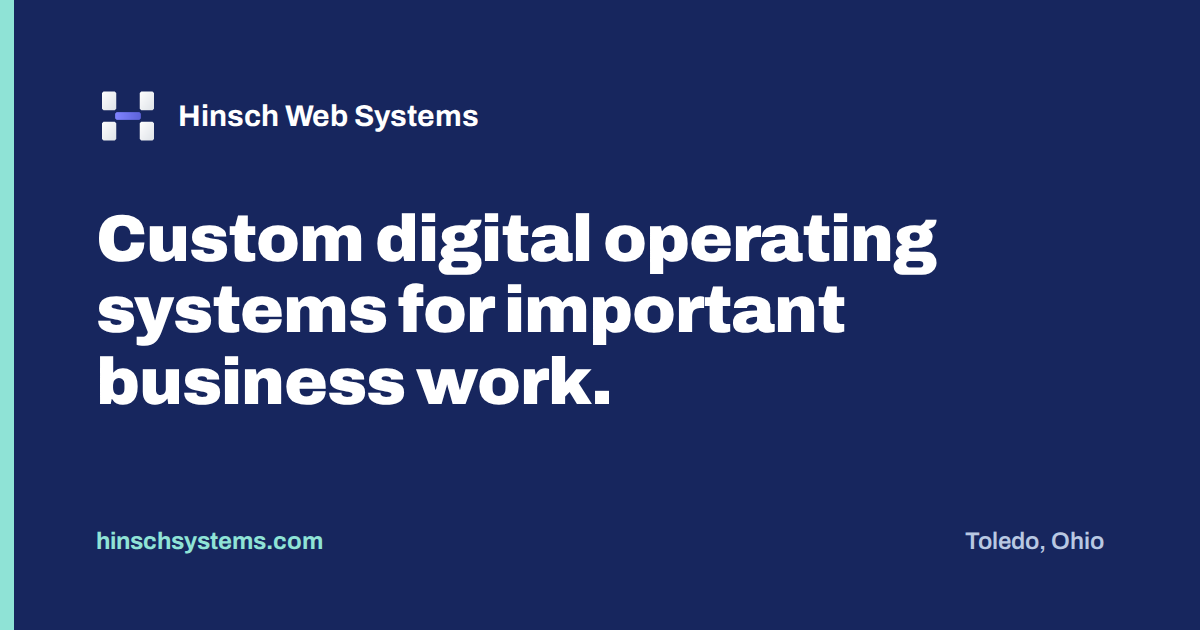
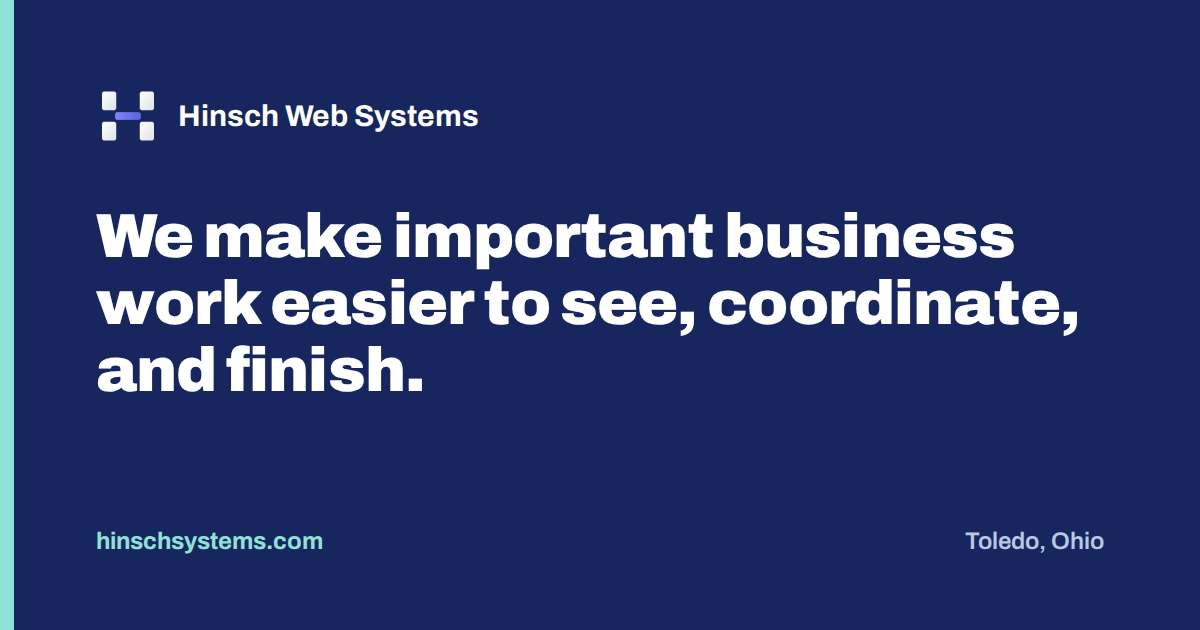
Add files via upload

Changed region(s): [[0.0617, 0.3317, 0.8942, 0.6635]]

diff --git a/company.html b/company.html
@@ -3,8 +3,8 @@
 <head>
 <meta charset="utf-8">
 <meta name="viewport" content="width=device-width, initial-scale=1">
-<title>Hinsch Web Systems | Custom digital operating systems for business work</title>
-<meta name="description" content="Hinsch Web Systems helps growing businesses find the inefficiencies hiding in their workflows, then builds the AI-powered systems, integrations, and automations that fix them.">
+<title>Hinsch Web Systems | Business work, made clearer and more reliable</title>
+<meta name="description" content="Hinsch Web Systems helps growing businesses see where work gets stuck, then builds connected tools and workflows that help people carry it through and confirm the result.">
 <link rel="canonical" href="https://hinschsystems.com/company">
 <meta name="theme-color" content="#17265E">
 <meta name="robots" content="index, follow">
@@ -12,7 +12,7 @@
 <meta property="og:type" content="website">
 <meta property="og:site_name" content="Hinsch Web Systems">
 <meta property="og:title" content="Hinsch Web Systems">
-<meta property="og:description" content="We build custom digital operating systems for important business work. Toledo, Ohio.">
+<meta property="og:description" content="We build connected tools and workflows that help people do important business work with more clarity and confidence. Toledo, Ohio.">
 <meta property="og:url" content="https://hinschsystems.com/company">
 <meta property="og:image" content="https://hinschsystems.com/company-social-preview.png">
 <meta property="og:image:width" content="1200">
@@ -21,7 +21,7 @@
 <meta property="og:locale" content="en_US">
 <meta name="twitter:card" content="summary_large_image">
 <meta name="twitter:title" content="Hinsch Web Systems">
-<meta name="twitter:description" content="We build custom digital operating systems for important business work. Toledo, Ohio.">
+<meta name="twitter:description" content="We build connected tools and workflows that help people do important business work with more clarity and confidence. Toledo, Ohio.">
 <meta name="twitter:image" content="https://hinschsystems.com/company-social-preview.png">
 <script type="application/ld+json">{"@context":"https://schema.org","@type":"ProfessionalService","name":"Hinsch Web Systems","url":"https://hinschsystems.com/company","email":"alex@hinschsystems.com","areaServed":"US","address":{"@type":"PostalAddress","addressLocality":"Toledo","addressRegion":"OH","addressCountry":"US"},"parentOrganization":{"@type":"Organization","name":"Your Media People LLC"}}</script>
 <link rel="preconnect" href="https://fonts.googleapis.com">
@@ -288,17 +288,17 @@
   <header class="hero">
     <div class="wrap">
       <div class="kicker">Systems consultancy, Toledo, Ohio</div>
-      <h1>We build custom digital operating systems for important business work.</h1>
-      <p class="lede">We connect the people, software, data, and decisions involved, so the work runs reliably, gets tracked, and gets checked.</p>
+      <h1>We make important business work easier to see, coordinate, and finish.</h1>
+      <p class="lede">We connect the people, tools, information, and decisions involved, so everyone can see what is happening, carry the work forward, and confirm what got done.</p>
       <div class="btn-row">
         <a href="mailto:alex@hinschsystems.com?subject=Let%27s%20talk&amp;cc=alex%40loudkid.com" class="btn-primary">Let's talk</a>
         <a href="#how-we-work" class="link-underline">See how we work</a>
       </div>
       <div class="hero-strip">
-        <div class="item"><span class="ic a"><svg aria-hidden="true" focusable="false" viewBox="0 0 24 24" fill="none" stroke="currentColor" stroke-width="2"><path d="M9 15l6-6"/><path d="M8 12l-2.3 2.3a3.3 3.3 0 0 0 4.7 4.7L13 16.5"/><path d="M16 12l2.3-2.3a3.3 3.3 0 0 0-4.7-4.7L11 7.5"/></svg></span>Connect fragmented tools</div>
+        <div class="item"><span class="ic a"><svg aria-hidden="true" focusable="false" viewBox="0 0 24 24" fill="none" stroke="currentColor" stroke-width="2"><path d="M9 15l6-6"/><path d="M8 12l-2.3 2.3a3.3 3.3 0 0 0 4.7 4.7L13 16.5"/><path d="M16 12l2.3-2.3a3.3 3.3 0 0 0-4.7-4.7L11 7.5"/></svg></span>Connect tools that don’t work together</div>
         <div class="item"><span class="ic b"><svg aria-hidden="true" focusable="false" viewBox="0 0 24 24" fill="none" stroke="currentColor" stroke-width="2"><rect x="3" y="4" width="18" height="16" rx="2"/><line x1="3" y1="9" x2="21" y2="9"/></svg></span>Build a custom app</div>
-        <div class="item"><span class="ic c"><svg aria-hidden="true" focusable="false" viewBox="0 0 24 24" fill="none" stroke="currentColor" stroke-width="2"><circle cx="12" cy="12" r="3"/><path d="M12 3v2M12 19v2M4.2 4.2l1.4 1.4M18.4 18.4l1.4 1.4M3 12h2M19 12h2M4.2 19.8l1.4-1.4M18.4 5.6l1.4-1.4"/></svg></span>Make it AI-ready</div>
-        <div class="item"><span class="ic d"><svg aria-hidden="true" focusable="false" viewBox="0 0 24 24" fill="none" stroke="currentColor" stroke-width="2"><path d="M12 3l7 3v6c0 5-3.2 8-7 9-3.8-1-7-4-7-9V6z"/><path d="M9 12l2 2 4-4"/></svg></span>Tame a complicated process</div>
+        <div class="item"><span class="ic c"><svg aria-hidden="true" focusable="false" viewBox="0 0 24 24" fill="none" stroke="currentColor" stroke-width="2"><circle cx="12" cy="12" r="3"/><path d="M12 3v2M12 19v2M4.2 4.2l1.4 1.4M18.4 18.4l1.4 1.4M3 12h2M19 12h2M4.2 19.8l1.4-1.4M18.4 5.6l1.4-1.4"/></svg></span>Prepare work for AI</div>
+        <div class="item"><span class="ic d"><svg aria-hidden="true" focusable="false" viewBox="0 0 24 24" fill="none" stroke="currentColor" stroke-width="2"><path d="M12 3l7 3v6c0 5-3.2 8-7 9-3.8-1-7-4-7-9V6z"/><path d="M9 12l2 2 4-4"/></svg></span>Make a complicated process easier to manage</div>
       </div>
     </div>
   </header>
@@ -307,7 +307,7 @@
   <section class="ethos">
     <div class="wrap">
       <div class="kicker" style="display:flex;">What we believe</div>
-      <p>We believe human intention should not be defeated by complexity. Technology should make people and organizations more capable, not more dependent.</p>
+      <p>Complexity should not get in the way of what people are trying to do. Technology should help people and organizations do more, with greater clarity and control.</p>
     </div>
   </section>
 
@@ -315,14 +315,14 @@
   <section class="section our-approach">
     <div class="wrap">
       <div class="kicker">Our approach</div>
-      <h2>One trusted answer to "What's true right now?"</h2>
-      <p class="body">Every lead, job, payment, and deadline, kept up to date as work happens. Everyone looks at the same truth. We call that a <strong>Live Business State</strong>, and every workflow we build reads from it and writes back to it.</p>
+      <h2>A shared, current picture of what is happening</h2>
+      <p class="body">Leads, jobs, payments, and deadlines stay current as work happens. Everyone can work from the same up-to-date record. We call that a <strong>Live Business State</strong>. Each workflow we build reads from it and records its updates there.</p>
 
       <div class="lbs-grid">
         <div class="lbs-card">
           <div class="label">What it is</div>
-          <h3>A live record of your business, kept in one structured place.</h3>
-          <p>It updates when work happens, not when someone remembers to update it.</p>
+          <h3>A current, organized record of what is happening in your business.</h3>
+          <p>It updates as work happens, so the record does not depend on someone remembering to update it later.</p>
           <hr>
           <div class="label">What it is not</div>
           <ul>
@@ -333,13 +333,13 @@
           </ul>
         </div>
         <div>
-          <div class="q-answers-label">It answers six questions, any time</div>
+          <div class="q-answers-label">It helps answer six questions at any time</div>
           <div class="lbs-questions">
             <div class="q-card"><div class="card-icon"><svg aria-hidden="true" focusable="false" viewBox="0 0 24 24" fill="none" stroke="currentColor" stroke-width="2"><polyline points="3 12 8 12 10 6 14 18 16 12 21 12"/></svg></div><div class="num">01</div><h4>What's happening?</h4><p>Every open lead, job, and invoice.</p></div>
             <div class="q-card"><div class="card-icon"><svg aria-hidden="true" focusable="false" viewBox="0 0 24 24" fill="none" stroke="currentColor" stroke-width="2"><circle cx="12" cy="8" r="4"/><path d="M4 20c0-4.4 3.6-8 8-8s8 3.6 8 8"/></svg></div><div class="num">02</div><h4>Who owns it?</h4><p>One name on every item.</p></div>
             <div class="q-card"><div class="card-icon"><svg aria-hidden="true" focusable="false" viewBox="0 0 24 24" fill="none" stroke="currentColor" stroke-width="2"><line x1="5" y1="12" x2="19" y2="12"/><polyline points="13 6 19 12 13 18"/></svg></div><div class="num">03</div><h4>What happens next?</h4><p>The next step and when it's due.</p></div>
-            <div class="q-card"><div class="card-icon"><svg aria-hidden="true" focusable="false" viewBox="0 0 24 24" fill="none" stroke="currentColor" stroke-width="2"><line x1="9" y1="6" x2="20" y2="6"/><line x1="9" y1="12" x2="20" y2="12"/><line x1="9" y1="18" x2="20" y2="18"/><circle cx="4" cy="6" r="1.3" fill="currentColor" stroke="none"/><circle cx="4" cy="12" r="1.3" fill="currentColor" stroke="none"/><circle cx="4" cy="18" r="1.3" fill="currentColor" stroke="none"/></svg></div><div class="num">04</div><h4>Which rules apply?</h4><p>Your rules, written down, not remembered.</p></div>
-            <div class="q-card"><div class="card-icon"><svg aria-hidden="true" focusable="false" viewBox="0 0 24 24" fill="none" stroke="currentColor" stroke-width="2"><polyline points="4 12 9 17 20 6"/></svg></div><div class="num">05</div><h4>Did it actually happen?</h4><p>Done means confirmed, not assumed.</p></div>
+            <div class="q-card"><div class="card-icon"><svg aria-hidden="true" focusable="false" viewBox="0 0 24 24" fill="none" stroke="currentColor" stroke-width="2"><line x1="9" y1="6" x2="20" y2="6"/><line x1="9" y1="12" x2="20" y2="12"/><line x1="9" y1="18" x2="20" y2="18"/><circle cx="4" cy="6" r="1.3" fill="currentColor" stroke="none"/><circle cx="4" cy="12" r="1.3" fill="currentColor" stroke="none"/><circle cx="4" cy="18" r="1.3" fill="currentColor" stroke="none"/></svg></div><div class="num">04</div><h4>Which rules apply?</h4><p>Your rules are recorded, so people do not have to rely on memory.</p></div>
+            <div class="q-card"><div class="card-icon"><svg aria-hidden="true" focusable="false" viewBox="0 0 24 24" fill="none" stroke="currentColor" stroke-width="2"><polyline points="4 12 9 17 20 6"/></svg></div><div class="num">05</div><h4>Did it actually happen?</h4><p>The work is marked done when the result has been confirmed.</p></div>
             <div class="q-card"><div class="card-icon"><svg aria-hidden="true" focusable="false" viewBox="0 0 24 24" fill="none" stroke="currentColor" stroke-width="2"><circle cx="12" cy="12" r="9"/><polyline points="12 7 12 12 16 14"/></svg></div><div class="num">06</div><h4>What changed?</h4><p>Who changed it, and when.</p></div>
           </div>
         </div>
@@ -347,28 +347,28 @@
 
       <div class="lbs-example-grid">
         <div class="example-card">
-          <div class="label">Example · One lead, as the state sees it</div>
-          <h3>The record moves as the work moves.</h3>
+          <div class="label">Example · One lead, shown in the shared record</div>
+          <h3>The record keeps pace with the work.</h3>
           <div class="timeline">
-            <div class="t-row"><div class="t-time">9:02 AM</div><div class="t-dot"></div><p><strong>New.</strong> Found in Apollo, pulled in by intake.</p></div>
-            <div class="t-row"><div class="t-time">9:02 AM</div><div class="t-dot"></div><p><strong>Checked.</strong> Reachable, not a duplicate, a good fit.</p></div>
+            <div class="t-row"><div class="t-time">9:02 AM</div><div class="t-dot"></div><p><strong>New.</strong> Found in Apollo and added through intake.</p></div>
+            <div class="t-row"><div class="t-time">9:02 AM</div><div class="t-dot"></div><p><strong>Checked.</strong> Reachable, not a duplicate, and a good fit.</p></div>
             <div class="t-row"><div class="t-time">9:03 AM</div><div class="t-dot"></div><p><strong>Assigned</strong> to Sam by the territory rule.</p></div>
-            <div class="t-row"><div class="t-time">9:40 AM</div><div class="t-dot"></div><p><strong>Called.</strong> Voicemail left. Logged by Sam.</p></div>
+            <div class="t-row"><div class="t-time">9:40 AM</div><div class="t-dot"></div><p><strong>Called.</strong> Sam left a voicemail and logged the call.</p></div>
             <div class="t-row"><div class="t-time">NOW</div><div class="t-dot next"></div><p><strong>Next:</strong> Sam calls back tomorrow at 10 AM.</p></div>
           </div>
-          <p class="example-foot">Anyone who opens this lead sees the same answer.</p>
+          <p class="example-foot">Anyone who opens this lead sees the same current record.</p>
         </div>
         <div class="truth-card">
-          <div class="label">How the truth gets changed</div>
-          <h3>Nothing changes without a check.</h3>
+          <div class="label">How the record gets updated</div>
+          <h3>Every change is checked before it is saved.</h3>
           <div class="truth-steps">
-            <div class="truth-step"><div class="circle">1</div><p>A person, or AI, asks for a change.</p></div>
-            <div class="truth-step"><div class="circle">2</div><p>The system checks: are they allowed, and does the change make sense right now?</p></div>
-            <div class="truth-step"><div class="circle">3</div><p>The change is saved with who made it and when.</p></div>
-            <div class="truth-step"><div class="circle">4</div><p>Everyone sees the new truth.</p></div>
+            <div class="truth-step"><div class="circle">1</div><p>A person or an AI tool requests a change.</p></div>
+            <div class="truth-step"><div class="circle">2</div><p>The system checks whether the person or tool is allowed to make the change, and whether it fits the current situation.</p></div>
+            <div class="truth-step"><div class="circle">3</div><p>The change is saved along with who made it and when.</p></div>
+            <div class="truth-step"><div class="circle">4</div><p>Everyone can see the updated record.</p></div>
           </div>
           <hr>
-          <div class="note">AI can suggest. Your system, following your rules, makes the change.</div>
+          <div class="note">AI can suggest a change. Your system checks it against your rules before saving it.</div>
         </div>
       </div>
 
@@ -378,7 +378,7 @@
       </div>
 
       <div class="lbs-closing">
-        <h3>Know what's true. Then act on it.</h3>
+        <h3>See what is happening. Then decide what to do.</h3>
         <div class="meta">Lead timeline is illustrative · alex@hinschsystems.com</div>
       </div>
     </div>
@@ -388,8 +388,8 @@
   <section id="who-we-help" class="section who-we-help">
     <div class="wrap">
       <div class="kicker">Who we help</div>
-      <h2>The opportunity usually shows up when a business is trying to add, scale, or improve something its current people and software can't reliably carry anymore.</h2>
-      <p class="intro" style="margin-top:14px;">That tends to look like:</p>
+      <h2>The need often becomes clear when a business is trying to add, grow, or improve work that its people and software can no longer handle reliably.</h2>
+      <p class="intro" style="margin-top:14px;">You may see it in:</p>
       <div class="help-list" style="margin-top:22px;">
         <div class="help-item"><span class="ic c1"><svg aria-hidden="true" focusable="false" viewBox="0 0 24 24" fill="none" stroke="currentColor" stroke-width="2"><circle cx="9" cy="8" r="3"/><path d="M3 20c0-3.3 2.7-6 6-6s6 2.7 6 6"/><circle cx="17" cy="9" r="2.2"/><path d="M15.5 14.2a5 5 0 0 1 5.5 5"/></svg></span><p>50+ employees doing a repetitive process</p></div>
         <div class="help-item"><span class="ic c2"><svg aria-hidden="true" focusable="false" viewBox="0 0 24 24" fill="none" stroke="currentColor" stroke-width="2"><path d="M9 15l6-6"/><path d="M8 12l-2.3 2.3a3.3 3.3 0 0 0 4.7 4.7L13 16.5"/><path d="M16 12l2.3-2.3a3.3 3.3 0 0 0-4.7-4.7L11 7.5"/></svg></span><p>Departments passing information back and forth</p></div>
@@ -398,7 +398,7 @@
         <div class="help-item"><span class="ic c2"><svg aria-hidden="true" focusable="false" viewBox="0 0 24 24" fill="none" stroke="currentColor" stroke-width="2"><circle cx="12" cy="12" r="9"/><path d="M8 14s1.5 2 4 2 4-2 4-2"/><line x1="9" y1="9" x2="9.01" y2="9"/><line x1="15" y1="9" x2="15.01" y2="9"/></svg></span><p>Sales or service teams stuck on repetitive admin work</p></div>
         <div class="help-item"><span class="ic c3"><svg aria-hidden="true" focusable="false" viewBox="0 0 24 24" fill="none" stroke="currentColor" stroke-width="2"><line x1="9" y1="6" x2="20" y2="6"/><line x1="9" y1="12" x2="20" y2="12"/><line x1="9" y1="18" x2="20" y2="18"/><circle cx="4" cy="6" r="1.3" fill="currentColor" stroke="none"/><circle cx="4" cy="12" r="1.3" fill="currentColor" stroke="none"/><circle cx="4" cy="18" r="1.3" fill="currentColor" stroke="none"/></svg></span><p>Complicated quoting or ordering</p></div>
         <div class="help-item"><span class="ic c1"><svg aria-hidden="true" focusable="false" viewBox="0 0 24 24" fill="none" stroke="currentColor" stroke-width="2"><path d="M6 2h9l5 5v15H6z"/><line x1="9" y1="13" x2="17" y2="13"/><line x1="9" y1="17" x2="14" y2="17"/></svg></span><p>Big volumes of documents processed by hand</p></div>
-        <div class="help-item"><span class="ic c2"><svg aria-hidden="true" focusable="false" viewBox="0 0 24 24" fill="none" stroke="currentColor" stroke-width="2"><circle cx="12" cy="12" r="9"/><path d="M12 7v5l3 2"/></svg></span><p>SOPs that depend on tribal knowledge</p></div>
+        <div class="help-item"><span class="ic c2"><svg aria-hidden="true" focusable="false" viewBox="0 0 24 24" fill="none" stroke="currentColor" stroke-width="2"><circle cx="12" cy="12" r="9"/><path d="M12 7v5l3 2"/></svg></span><p>Written procedures that depend on knowledge held by a few people</p></div>
         <div class="help-item"><span class="ic c3"><svg aria-hidden="true" focusable="false" viewBox="0 0 24 24" fill="none" stroke="currentColor" stroke-width="2"><line x1="5" y1="20" x2="5" y2="12"/><line x1="12" y1="20" x2="12" y2="6"/><line x1="19" y1="20" x2="19" y2="15"/></svg></span><p>Employees spending hours compiling reports</p></div>
         <div class="help-item"><span class="ic c1"><svg aria-hidden="true" focusable="false" viewBox="0 0 24 24" fill="none" stroke="currentColor" stroke-width="2"><polyline points="4 12 9 17 20 6"/></svg></span><p>Customer onboarding full of manual steps</p></div>
         <div class="help-item"><span class="ic c2"><svg aria-hidden="true" focusable="false" viewBox="0 0 24 24" fill="none" stroke="currentColor" stroke-width="2"><path d="M2 12s4-7 10-7 10 7 10 7-4 7-10 7-10-7-10-7z"/><circle cx="12" cy="12" r="3"/></svg></span><p>Leadership lacking visibility into what's happening</p></div>
@@ -411,8 +411,8 @@
   <section id="why-it-matters" class="section why-it-matters">
     <div class="wrap">
       <div class="kicker">Why it matters</div>
-      <h2>Most AI agent projects don't fail because the AI is bad.</h2>
-      <p class="intro">Gartner expects most agentic AI projects to get cancelled in the next couple of years. Usually it's not the AI's fault. It's how it's hooked up: no single source of truth, nobody checking its work before it acts, and small mistakes that pile up the longer it runs on its own.</p>
+      <h2>AI projects often struggle because of the work around the AI.</h2>
+      <p class="intro">Gartner expects most agentic AI projects to be cancelled in the next couple of years. Often the problem is how the AI is connected to the work: there is no shared, current record, no one checking its work before it acts, and small mistakes can build up when it keeps going without review.</p>
 
       <div class="chart-card">
         <svg viewBox="0 0 900 300" role="img" aria-label="Line chart showing reliability dropping to roughly 46 percent after 15 unchecked steps, compared to staying near 95 percent when each step is checked before the next one runs.">
@@ -430,28 +430,28 @@
           <text x="700" y="165" font-family="Archivo, Arial, sans-serif" font-weight="700" font-size="13" fill="#A02F41">Chained, nothing checking it</text>
           <text x="450" y="280" text-anchor="middle" font-family="Archivo, Arial, sans-serif" font-size="11" fill="#687385">15 steps in a row, one after another</text>
         </svg>
-        <p class="chart-caption">This is just math, not a measurement of any real system. If one step is right 95% of the time, and you chain 15 of those with nobody checking in between, your odds of the whole thing going right drop to about 46%, worse than a coin flip. Check each step before the next one runs, and that drop never happens. That's the whole case for a checkpoint.</p>
+        <p class="chart-caption">This is a math example, not a measurement of a real system. If each step is right 95% of the time, chaining 15 steps with no checks in between means the odds of every step going right fall to about 46%, worse than a coin flip. Checking each step before the next begins can prevent one unchecked mistake from carrying through the rest of the process. That is why checkpoints matter.</p>
       </div>
 
       <div class="bottleneck-row">
         <div class="bottleneck-card" style="--card-accent:#CC4052;">
           <div class="card-icon"><svg aria-hidden="true" focusable="false" viewBox="0 0 24 24" fill="none" stroke="currentColor" stroke-width="2"><path d="M12 9v4"/><path d="M10.3 3.9L2.6 17.5A1.8 1.8 0 0 0 4.2 20h15.6a1.8 1.8 0 0 0 1.6-2.5L13.7 3.9a1.8 1.8 0 0 0-3.4 0z"/><circle cx="12" cy="16.5" r="0.9" fill="currentColor" stroke="none"/></svg></div>
-          <h3>Errors pile up</h3>
-          <p>Ten or fifteen steps chained together, no one checking the work. Even reliable steps eventually miss.</p>
+          <h3>Small errors can add up</h3>
+          <p>Ten or fifteen steps run in a row with no one checking the work. Even steps that usually work can go wrong.</p>
         </div>
         <div class="bottleneck-card" style="--card-accent:#B46F12;">
           <div class="card-icon"><svg aria-hidden="true" focusable="false" viewBox="0 0 24 24" fill="none" stroke="currentColor" stroke-width="2"><path d="M2 12s4-7 10-7 10 7 10 7-4 7-10 7-10-7-10-7z" opacity="0.4"/><circle cx="12" cy="12" r="3"/><line x1="4" y1="4" x2="20" y2="20"/></svg></div>
-          <h3>Working from stale info</h3>
-          <p>Most businesses don't have one up-to-date picture everyone trusts, so the AI acts on a guess instead of what's actually true.</p>
+          <h3>Working from outdated information</h3>
+          <p>Without one current picture of the business that people can trust, AI may act on outdated or incomplete information.</p>
         </div>
         <div class="bottleneck-card" style="--card-accent:#0B8E83;">
           <div class="card-icon"><svg aria-hidden="true" focusable="false" viewBox="0 0 24 24" fill="none" stroke="currentColor" stroke-width="2"><path d="M12 3l7 3v6c0 5-3.2 8-7 9-3.8-1-7-4-7-9V6z"/><path d="M9 12l2 2 4-4"/></svg></div>
-          <h3>Nobody checks before it ships</h3>
-          <p>A small mistake becomes a real one when nothing reviews the work first. A person should get a look before it goes out.</p>
+          <h3>Work goes out without review</h3>
+          <p>A small mistake can become a real problem if no one reviews the work first. A person should be able to check it before it goes out.</p>
         </div>
       </div>
 
-      <p class="footnote">Gartner, IDC, and MIT research all point the same way: AI projects stall on how they're connected, how ready the data is, and who's watching them. Not on the AI itself. That's the part we build.</p>
+      <p class="footnote">Gartner, IDC, and MIT research point to recurring challenges: how AI is connected to the work, whether the data is ready, and who is responsible for reviewing it. These are the parts we help build around the AI.</p>
     </div>
   </section>
 
@@ -460,10 +460,10 @@
     <div class="wrap">
       <div class="col">
         <div class="kicker">How we work</div>
-        <h2>We work at the scope the situation calls for.</h2>
+        <h2>We choose a scope that fits the situation.</h2>
       </div>
       <div class="col">
-        <p class="body">We scope to fit the situation: a small proof first when it needs testing, or straight to the real build when the scope's already clear.</p>
+        <p class="body">If the approach needs testing, we start with a small working proof. If the scope is already clear, we can move straight into the full build.</p>
         <div style="display:flex;flex-direction:column;gap:14px;margin-top:24px;">
           <div class="help-item"><span class="ic c1"><svg aria-hidden="true" focusable="false" viewBox="0 0 24 24" fill="none" stroke="currentColor" stroke-width="2"><circle cx="12" cy="12" r="9"/><path d="M9.5 9a2.5 2.5 0 0 1 5 0c0 1.5-2.5 2-2.5 4"/><line x1="12" y1="17" x2="12.01" y2="17"/></svg></span><p>What the business needs to know</p></div>
           <div class="help-item"><span class="ic c2"><svg aria-hidden="true" focusable="false" viewBox="0 0 24 24" fill="none" stroke="currentColor" stroke-width="2"><path d="M12 3l7 3v6c0 5-3.2 8-7 9-3.8-1-7-4-7-9V6z"/></svg></span><p>What the software's allowed to do</p></div>
@@ -477,12 +477,12 @@
   <section class="section what-we-build">
     <div class="wrap">
       <div class="kicker">How it works</div>
-      <h2 class="how-it-works-head">Built around your business. Not around one tool.</h2>
+      <h2 class="how-it-works-head">Built around how your business works.</h2>
 
       <div class="prove-piece">
         <div class="col">
-          <h3>Prove one piece. Then build the rest.</h3>
-          <p>We don't build the whole system at once. We get the core of it working on your real leads first, show you the numbers, and let you decide what comes next.</p>
+          <h3>Make one part work. Then decide what comes next.</h3>
+          <p>We start with the core process and get it working with your real leads. Then we show you the results so you can decide what to build next.</p>
         </div>
         <div class="phase-legend-card">
           <div class="row"><span class="phase-icon mapped"></span>Mapped</div>
@@ -494,8 +494,8 @@
 
       <div class="flow-card">
         <div class="kicker" style="color:#0B6F66;margin-bottom:6px;">Custom APIs and integrations</div>
-        <h3>Your tools talk to each other.</h3>
-        <p>Enter it once and it flows everywhere it needs to go, so nobody types the same thing into three places.</p>
+        <h3>Your tools share information.</h3>
+        <p>Enter information once and send it where it needs to go, so people do not have to type the same thing into three places.</p>
         <div class="flow-row">
           <span class="flow-box">Website</span><span class="flow-arrow">→</span>
           <span class="flow-box">CRM</span><span class="flow-arrow">→</span>
@@ -503,12 +503,12 @@
           <span class="flow-box">Database</span><span class="flow-arrow">→</span>
           <span class="flow-box end">Your dashboard</span>
         </div>
-        <div class="fixes">Fixes: "We type the same thing into three places."</div>
+        <div class="fixes">Helps solve: “We type the same thing into three places.”</div>
       </div>
 
       <div style="margin-top:64px;">
-        <h3 style="font-size:clamp(24px,3vw,32px);line-height:1.25;max-width:20ch;">When off-the-shelf doesn't fit, we build the tool.</h3>
-        <p style="font-size:15.5px;line-height:1.7;color:var(--gray);max-width:60ch;margin-top:14px;">We use the software you already pay for wherever it works. We build custom only for the part that is truly yours.</p>
+        <h3 style="font-size:clamp(24px,3vw,32px);line-height:1.25;max-width:20ch;">When existing software does not fit, we build what is missing.</h3>
+        <p style="font-size:15.5px;line-height:1.7;color:var(--gray);max-width:60ch;margin-top:14px;">We use the software you already pay for wherever it works, and build custom tools only for the parts your business needs that it cannot handle.</p>
 
         <div class="status-legend">
           <span class="item"><span class="tag tag-running">Running today</span> Built and in use</span>
@@ -522,7 +522,7 @@
               <span class="tag tag-running">Running today</span>
             </div>
             <h3>Portals and payments</h3>
-            <p>Customers log in, see what they owe, and pay. Balances and receipts update on their own.</p>
+            <p>Customers log in, see what they owe, and pay. The system updates balances and sends receipts.</p>
             <div class="foot-label">Where it runs</div>
             <div class="foot-text">A residential rental portfolio. Online rent payment live with its first tenant.</div>
           </div>
@@ -532,7 +532,7 @@
               <span class="tag tag-running">Running today</span>
             </div>
             <h3>Document sorting and delivery</h3>
-            <p>Takes a long manual, sorts every section into keep, condense, or cut, and delivers a clean version.</p>
+            <p>Reviews a long manual, sorts each section into keep, condense, or cut, and delivers a clean version.</p>
             <div class="foot-label">Where it runs</div>
             <div class="foot-text">Frankart Powerline Services. Delivered twice. The second build was roughly a third faster.</div>
           </div>
@@ -542,7 +542,7 @@
               <span class="tag tag-running">Running today</span>
             </div>
             <h3>Custom connectors</h3>
-            <p>Links tools that don't talk to each other. A payment in one system updates the record in another.</p>
+            <p>Connects tools that do not share information. A payment in one system updates the record in another.</p>
             <div class="foot-label">Where it runs</div>
             <div class="foot-text">Portal to payment processor to database to receipt, in live client work.</div>
           </div>
@@ -552,7 +552,7 @@
               <span class="tag tag-running">Running today</span>
             </div>
             <h3>Dashboards</h3>
-            <p>One screen that shows the numbers and statuses you run the business on.</p>
+            <p>One screen showing the numbers and statuses you use to run the business.</p>
             <div class="foot-label">Where it runs</div>
             <div class="foot-text">The tenant dashboard behind the rent-payment portal.</div>
           </div>
@@ -562,7 +562,7 @@
               <span class="tag tag-ready">Ready to build</span>
             </div>
             <h3>Team workspaces</h3>
-            <p>Simple screens for callers, coordinators, and managers. AI helps inside rules you set.</p>
+            <p>Simple screens for callers, coordinators, and managers, with AI working within the rules you set.</p>
             <div class="foot-label">Where it stands</div>
             <div class="foot-text">Our thin application layer. Written and ready for its first client.</div>
           </div>
@@ -572,7 +572,7 @@
               <span class="tag tag-ready">Ready to build</span>
             </div>
             <h3>Approve-first AI tools</h3>
-            <p>AI drafts a change. A person reviews it. One click to approve, one click to undo.</p>
+            <p>AI drafts a change for a person to review. Approve it with one click or undo it with one click.</p>
             <div class="foot-label">Where it stands</div>
             <div class="foot-text">Designed and demonstrated. Ready to build into a real workflow.</div>
           </div>
@@ -588,25 +588,25 @@
         <div>
           <div class="kicker">Where every client starts</div>
           <h2>Start with The First Fix.</h2>
-          <p class="lede">One broken process. Two weeks. A working proof and a measured business case before you commit to anything bigger.</p>
+          <p class="lede">Choose one process to improve. In two weeks, get a working proof and a measured business case to help decide whether to take the next step.</p>
         </div>
-        <a href="mailto:alex@hinschsystems.com?subject=The%20First%20Fix&amp;cc=alex%40loudkid.com" class="btn-primary">Book your First Fix</a>
+        <a href="mailto:alex@hinschsystems.com?subject=The%20First%20Fix&amp;cc=alex%40loudkid.com" class="btn-primary">Book The First Fix</a>
       </div>
       <div class="first-fix-steps">
         <div class="ff-step">
           <div class="num">01</div>
           <h3>Map it.</h3>
-          <p>We find the one process costing you the most and map how it really runs.</p>
+          <p>We identify the process costing you the most and map how it actually works.</p>
         </div>
         <div class="ff-step">
           <div class="num">02</div>
           <h3>Build it.</h3>
-          <p>We build a working proof on your real data. Not a slide. A thing that runs.</p>
+          <p>We build a working proof using your real data, so you can see the process run for yourself.</p>
         </div>
         <div class="ff-step">
           <div class="num">03</div>
           <h3>Measure it.</h3>
-          <p>You get the numbers. Then you decide what to fix next.</p>
+          <p>You get the results and decide what to improve next.</p>
         </div>
       </div>
     </div>
@@ -615,8 +615,8 @@
   <!-- CTA -->
   <section class="cta">
     <div class="wrap">
-      <h2>What capability is your company trying to add or improve right now?</h2>
-      <p>Tell us what you're trying to add, fix, or scale, and we'll tell you what it would take.</p>
+      <h2>What is your company trying to add or improve right now?</h2>
+      <p>Tell us what you are trying to add, fix, or grow, and we will help you understand what it would take.</p>
       <a href="mailto:alex@hinschsystems.com?subject=Let%27s%20talk&amp;cc=alex%40loudkid.com" class="btn-primary">Let's talk</a>
     </div>
   </section>
